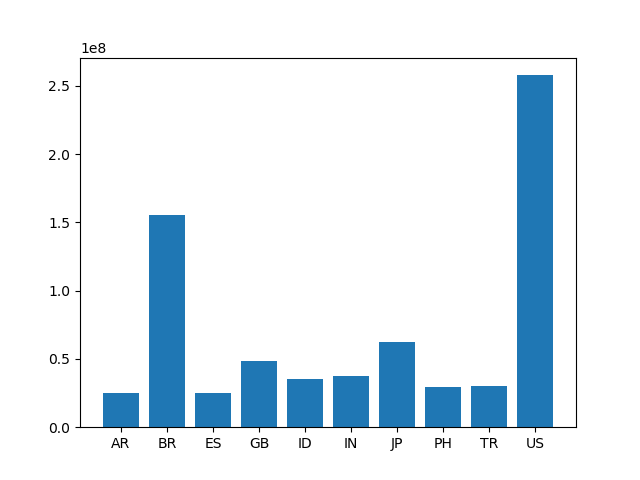
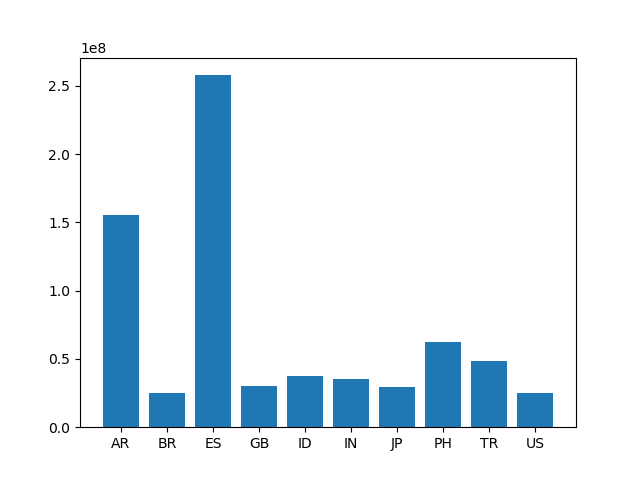
look at this graph

Changed region(s): [[0.1562, 0.1562, 0.5, 0.8438], [0.5312, 0.1562, 0.875, 0.8438]]

diff --git a/src/visualize.py b/src/visualize.py
@@ -30,13 +30,17 @@ if args.percent:
 items = sorted(counts[args.key].items(), key=lambda item: (item[1],item[0]), reverse=True)
 for k,v in items:
     print(k,':',v)
+
+'''    
 df = pd.DataFrame(columns = ['labels', 'values'])
 labels = [item[0] for item in items[:10]]
 values = [item[1] for item in items[:10]]
 df['labels'] = labels
 df['values'] = values
 df_sorted = df.sort_values('values')
+'''
+labels = [item[0] for item in items[:10]]
+values = [item[1] for item in items[:10]]
 
-
-plt.bar('labels', 'values', data=df_sorted)
+plt.bar(labels, sorted(values))
 plt.savefig(f'{args.key}_{args.input_path[8:]}.png')
